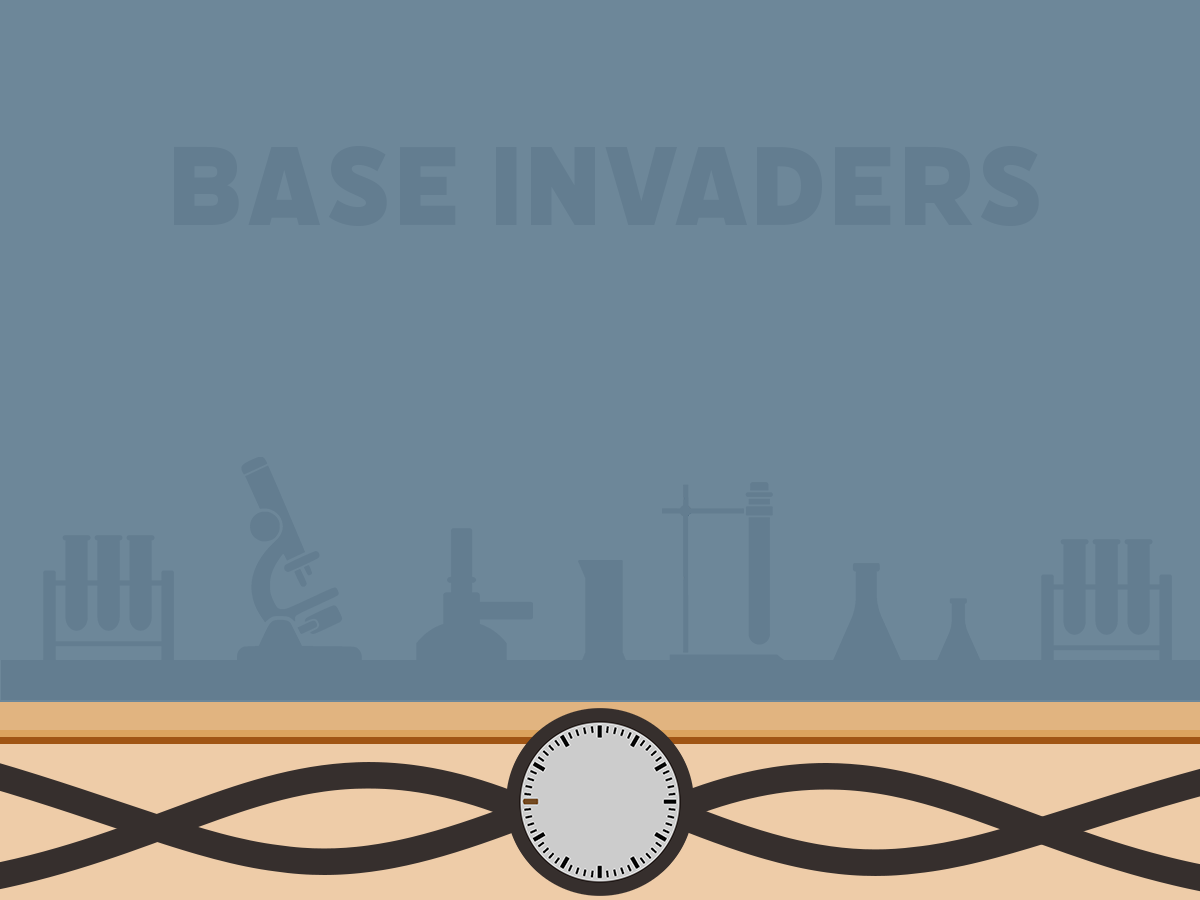
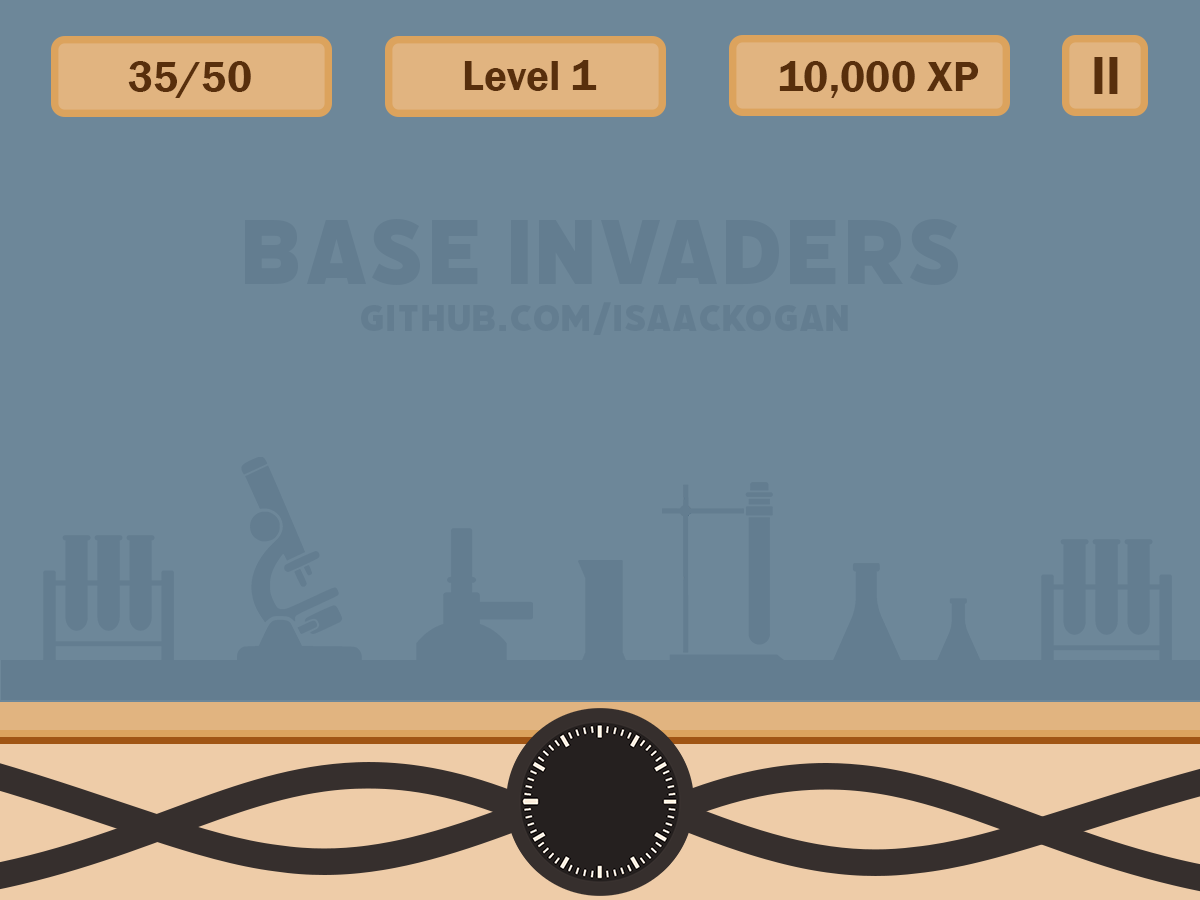
Added nucleases, loading screen, end game timer, end game clauses, points, temporary new custom background, updated to do list, and a few minor fixes/performance related changes.

diff --git a/BaseInvaders/baseinvaders.py b/BaseInvaders/baseinvaders.py
@@ -2,8 +2,10 @@ from BaseInvaders.modules.objectives import *
 from BaseInvaders.modules.characters import *
 from BaseInvaders.modules.bases import *
 from config import DISPLAY_X, DISPLAY_Y
+from BaseInvaders.modules.neucleases import Nuclease
 from main import *
-from BaseInvaders.modules.backgroundanims import *
+from BaseInvaders.modules.background import *
+
 
 class BaseInvaders:
     def __init__(self):
@@ -15,12 +17,15 @@ class BaseInvaders:
         self.speed = 30
         self.pressed_keys = pygame.key.get_pressed()
         self.general_timer = 0
+        self.base_timer = 0
         self.bases = []
         self.points = 0
         self.last_spawn = Base()
-        self.obj = None
+        self.objective = None
         self.dis = dis
         self.current_animation = None
+        self.nuclease = Nuclease()
+        self.game_over = False
 
         pygame.time.set_timer(pygame.USEREVENT, 10)
 
@@ -32,6 +37,9 @@ class BaseInvaders:
 
             if event.type == pygame.USEREVENT:
                 self.general_timer += 0.01
+                self.base_timer += 0.01
+
+                self.base_timer = round(self.base_timer, 2)
                 self.general_timer = round(self.general_timer, 2)
 
                 for idx, item in enumerate(self.bases):
@@ -55,9 +63,16 @@ class BaseInvaders:
                     for item in self.bases:
                         item.state_pos += 0
 
-                self.obj.rotation -= 0.1
+                # Determines time left and runs checks
+                self.objective.time_left = round(self.objective.time_per_base - self.base_timer, 2)
+                if self.objective.time_left <= 0:
+                    self.game_over = True
+
+            if self.nuclease.regen_nuclease:
+                self.nuclease = Nuclease()
 
         self.character.handle_movement()
+        self.nuclease.handle_movement()
 
     def draw_graphics(self):
         self.dis.blit(self.background, (0, 0))
@@ -65,7 +80,7 @@ class BaseInvaders:
         # Level Display
         level_info = self.level.get_level()
 
-        self.dis.blit(level_font.render(level_info[0], 1, LEVEL_COLOUR), (DISPLAY_X / 2 - level_info[1][0] / 2, 255))  # Draw game over text
+        # self.dis.blit(level_font.render(level_info[0], 1, LEVEL_COLOUR), (DISPLAY_X / 2 - level_info[1][0] / 2, 255))  # Draw game over text
 
         if self.current_animation is not None:
             self.current_animation.get_image()
@@ -75,26 +90,60 @@ class BaseInvaders:
 
         # pygame.draw.rect(self.dis, (0, 0, 0), (self.character.hit_box[0], self.character.hit_box[1], self.character.hit_box[2], self.character.hit_box[3]))
         self.dis.blit(self.character.display_image, (self.character.position_x - self.character.flip_offset, self.character.position_y))
-        self.dis.blit(self.obj.get_image()[0], self.obj.get_image()[1])
 
+        # Calculate base timer
+        base_timer = self.objective.get_image()
+        self.dis.blit(base_timer[0], base_timer[1])
+
+        # Bases
         for item in self.bases:
             self.dis.blit(item.get_image(), (item.position_x, item.position_y))
+
+        # Nuclease
+        self.dis.blit(self.nuclease.get_image(), (self.nuclease.position_x, self.nuclease.position_y))
 
     def handle_collisions(self):
         self.handle_events()
 
+        # If player hitbox is null cancel collision checks
+        if None in self.character.hit_box:
+            return
+
+        character = pygame.Rect(self.character.hit_box[0], self.character.hit_box[1], self.character.hit_box[2], self.character.hit_box[3])
+        nuclease_rect = pygame.Rect(self.nuclease.position_x, self.nuclease.position_y, nuclease_dimensions[0], nuclease_dimensions[1])
+
+        # Base Collisions
         for item in self.bases:
-            r = pygame.Rect(item.position_x, item.position_y, base_dimensions[0], base_dimensions[1])
-            o = pygame.Rect(self.character.hit_box[0], self.character.hit_box[1], self.character.hit_box[2], self.character.hit_box[3])
-            if r.colliderect(o):
-                print(self.points)
-                got_base = self.obj.handle_collisions(item.type)
+            base_rect = pygame.Rect(item.position_x, item.position_y, base_dimensions[0], base_dimensions[1])
+
+            # Base Collision with Base
+            for more in self.bases:
+                more_rect = pygame.Rect(more.position_x, more.position_y, base_dimensions[0], base_dimensions[1])
+
+                # Switch direction on collision
+                if base_rect.colliderect(more_rect) and base_rect != more_rect:
+                    item.direction = not item.direction
+
+                    # Prevent glitchy position changing (getting stuck in a loop of collisions and switching directions when the y values are equal)
+                    if item.position_y > more.position_y:
+                        item.position_y += 2
+
+
+            # Base Collision with Character
+            if base_rect.colliderect(character):
+                got_base = self.objective.handle_collisions(item.type)
 
                 if got_base:
                     self.points += 1
                     self.level.bases -= 1
+                    self.base_timer = 0 # Reset the base timer if they caught the right one
 
                 item.remove_base = True
+
+        # Nuclease Collision with Player
+        if nuclease_rect.colliderect(character):
+            print("COLLISION")
+            self.game_over = True
 
 
 def base_invaders():
@@ -104,7 +153,7 @@ def base_invaders():
 
     # Initial Values
     game_instance = BaseInvaders()
-    game_instance.obj = BaseObjective()
+    game_instance.objective = BaseObjective()
 
     while True:
         game_instance.handle_collisions()

diff --git a/BaseInvaders/modules/neucleases.py b/BaseInvaders/modules/neucleases.py
@@ -1,28 +1,29 @@
-from random import choice, randint
-from BaseInvaders.config import bases, ground, base_dimensions
+from BaseInvaders.config import *
 from config import DISPLAY_X
-import pygame
+from random import choice, randint
+from math import floor
 
 
-class Base:
+class Nuclease:
     def __init__(self):
         # Loading Resources
-        self.bases = bases                                          # Valid display locations for bases
+        self.states = nuclease                                          # Valid display locations for bases
 
         # Settings
-        self.change_x = 0.6                                         # Change the x position by
-        self.change_y = 0.4                                         # Change the y position by
+        self.position_y = -100                                      # Spawn position @ Y level
+        self.change_x = 2                                         # Change the x position by
+        self.change_y = 3                                         # Change the y position by
         self.screen_width = DISPLAY_X                               # Width of the screen (for direction changes)
 
         # Initial Values (Hardcoded)
         self.state_pos = 1                                          # Initial position of image states
-        self.remove_base = False                                    # Boolean for removing the base on remove event
+        self.state_change_amount = 0.5
+        self.regen_nuclease = False                                    # Boolean for removing the base on remove event
 
         # Initial Values (Variable)
         self.direction = choice([True, False])                      # Random spawn direction
-        self.type = choice(list(self.bases.keys()))                 # Random base type
         self.position_x = randint(50, self.screen_width - 50)       # Random spawn position @ X level
-        self.position_y = -100
+        self.flip = True
 
     def handle_movement(self):
         """
@@ -41,24 +42,27 @@ class Base:
         if not self.direction:  # False = Right
             self.position_x += self.change_x
 
-            if self.position_x > self.screen_width - base_dimensions[0]:
+            if self.position_x > self.screen_width - nuclease_dimensions[0]:
                 self.direction = not self.direction
 
         # Move Down (Constant)
         self.position_y += self.change_y
 
         # If hitting the ground
-        if self.position_y + base_dimensions[1] >= ground:
-            self.remove_base = True
+        if self.position_y + nuclease_dimensions[1] >= ground:
+            self.regen_nuclease = True
 
     # Get a display surface of the base
     def get_image(self, increment=True):
         """Return the current position of the base
         :return: A scale pygame surface for the base (image)
         """
-        # Increment the state position of the object's animation if requested
-        if increment and (self.state_pos > len(self.bases[self.type])):
-            self.state_pos = 1
+        if self.flip:
+            if self.state_pos < len(self.states): self.state_pos += self.state_change_amount
+            else: self.flip = False
+        if not self.flip:
+            if self.state_pos > 1: self.state_pos -= self.state_change_amount
+            else: self.flip = True
 
         # Return scaled image at the requested state position
-        return pygame.transform.scale(self.bases[self.type][self.state_pos], base_dimensions)
+        return pygame.transform.scale(self.states[floor(self.state_pos)], nuclease_dimensions)

diff --git a/BaseInvaders/modules/objectives.py b/BaseInvaders/modules/objectives.py
@@ -15,9 +15,6 @@ class LevelsSystem:
         return text, size
 
 
-
-
-
 class BaseObjective:
     def __init__(self):
         # Initial Values (Variable)
@@ -31,6 +28,10 @@ class BaseObjective:
         self.state_pos = 1                              # Set the display state to 1 (filled with colour)
         self.position_x = 596                           # Set the default X position of the object
         self.position_y = ground + 103                  # Set the default Y position of the object
+
+        # Timer
+        self.time_per_base = 10
+        self.time_left = self.time_per_base
 
     def new_base(self):
         """
@@ -63,10 +64,16 @@ class BaseObjective:
             self.size_iterator -= 1  # Reduce size iterator
             dimensions = (round(dimensions[0] * 1.2), round(dimensions[1] * 1.2))  # Change dimensions (inflate the image)
 
+        # Get the rotation of the image
+        self.rotation = self.get_rotation()
+
         # Scale the image to its appropriate dimension and rotate it accordingly
-        image = rot_center(pygame.transform.smoothscale(image, dimensions), self.rotation, self.position_x, self.position_y)
+        image = rot_center(pygame.transform.smoothscale(image, dimensions), self.rotation - 90, self.position_x, self.position_y)  # "-90" rotates the position of 0 degrees to -90
 
         return image
+
+    def get_rotation(self):
+        return (self.time_left / self.time_per_base) * 360
 
     def handle_collisions(self, collided_base):
         """

diff --git a/main.py b/main.py
@@ -1,10 +1,23 @@
 from config import *
-from BaseInvaders.baseinvaders import *
 import pygame
+from BaseInvaders.modules.loading_screen.loadingscreen import loading_screen
 
 pygame.init()
 dis = pygame.display.set_mode((DISPLAY_X, DISPLAY_Y))
+dis.fill((109, 135, 153))
 
 if __name__ == '__main__':
+    percent_loaded = 0
+    while percent_loaded < 120:
+        percent_loaded += 0.5
+        loading_screen(dis, percent_loaded)
+
+        if percent_loaded == 50:
+            from BaseInvaders.baseinvaders import *
+
+
+        pygame.display.flip()
+
     base_invaders()
+
 

diff --git a/BaseInvaders/config.py b/BaseInvaders/config.py
@@ -15,10 +15,9 @@ bases = {
     'guanine': load_anim_images('./BaseInvaders/resources/bases/guanine/Guanine (<>).png', 1, 4)
 }
 
-pow_dimensions = 300, 279
-pow_dimensions = (round(pow_dimensions[0]/2), round(pow_dimensions[1]/2))
-
-pow = pygame.transform.scale(pygame.image.load('./BaseInvaders/resources/Pow.png'), pow_dimensions),
+nuclease_dimensions = 640, 640
+nuclease_dimensions = (round(nuclease_dimensions[0] / 6.8), round(nuclease_dimensions[1] / 6.8))
+nuclease = load_anim_images('./BaseInvaders/resources/nuclease/Nuclease (<>).png', 1, 14)
 
 pygame.font.init()
 

diff --git a/BaseInvaders/modules/resourcetools.py b/BaseInvaders/modules/resourcetools.py
@@ -16,10 +16,10 @@ def load_anim_images(path, start, stop, size=None):
 
     for x in range(start, stop + 1):
         formatted_path = path[:placeholder_pre] + str(x) + path[placeholder_post:]
-        tmp = pygame.image.load(formatted_path)
+        tmp = pygame.image.load(formatted_path).convert_alpha()
 
         if size is not None:
-            tmp = pygame.transform.scale(tmp, (round(size[0]), round(size[1])))
+            tmp = pygame.transform.scale(tmp, (round(size[0]), round(size[1]))).convert_alpha()
 
         images_dict[x] = tmp
 

diff --git a/BaseInvaders/modules/loading_screen/loadingscreen.py b/BaseInvaders/modules/loading_screen/loadingscreen.py
@@ -1,0 +1,15 @@
+import pygame
+
+pygame.init()
+
+loading_screen_image = pygame.image.load('./BaseInvaders/modules/loading_screen/LoadingScreen.png')
+
+
+def loading_screen(dis, percent_loaded):
+    full = 548
+    if percent_loaded > 100: percent_loaded = 100
+    percent_loaded /= 100
+    percent_loaded_pixels = percent_loaded * full
+
+    dis.blit(loading_screen_image, (0, 0))
+    pygame.draw.rect(dis, (0, 0, 0), (331, 351, percent_loaded_pixels, 34))

diff --git a/BaseInvaders/resources/characters/load_characters.py b/BaseInvaders/resources/characters/load_characters.py
@@ -3,6 +3,7 @@
 import pygame
 from BaseInvaders.modules.resourcetools import load_anim_images
 
+print('ran')
 """
 
 STANDARD
